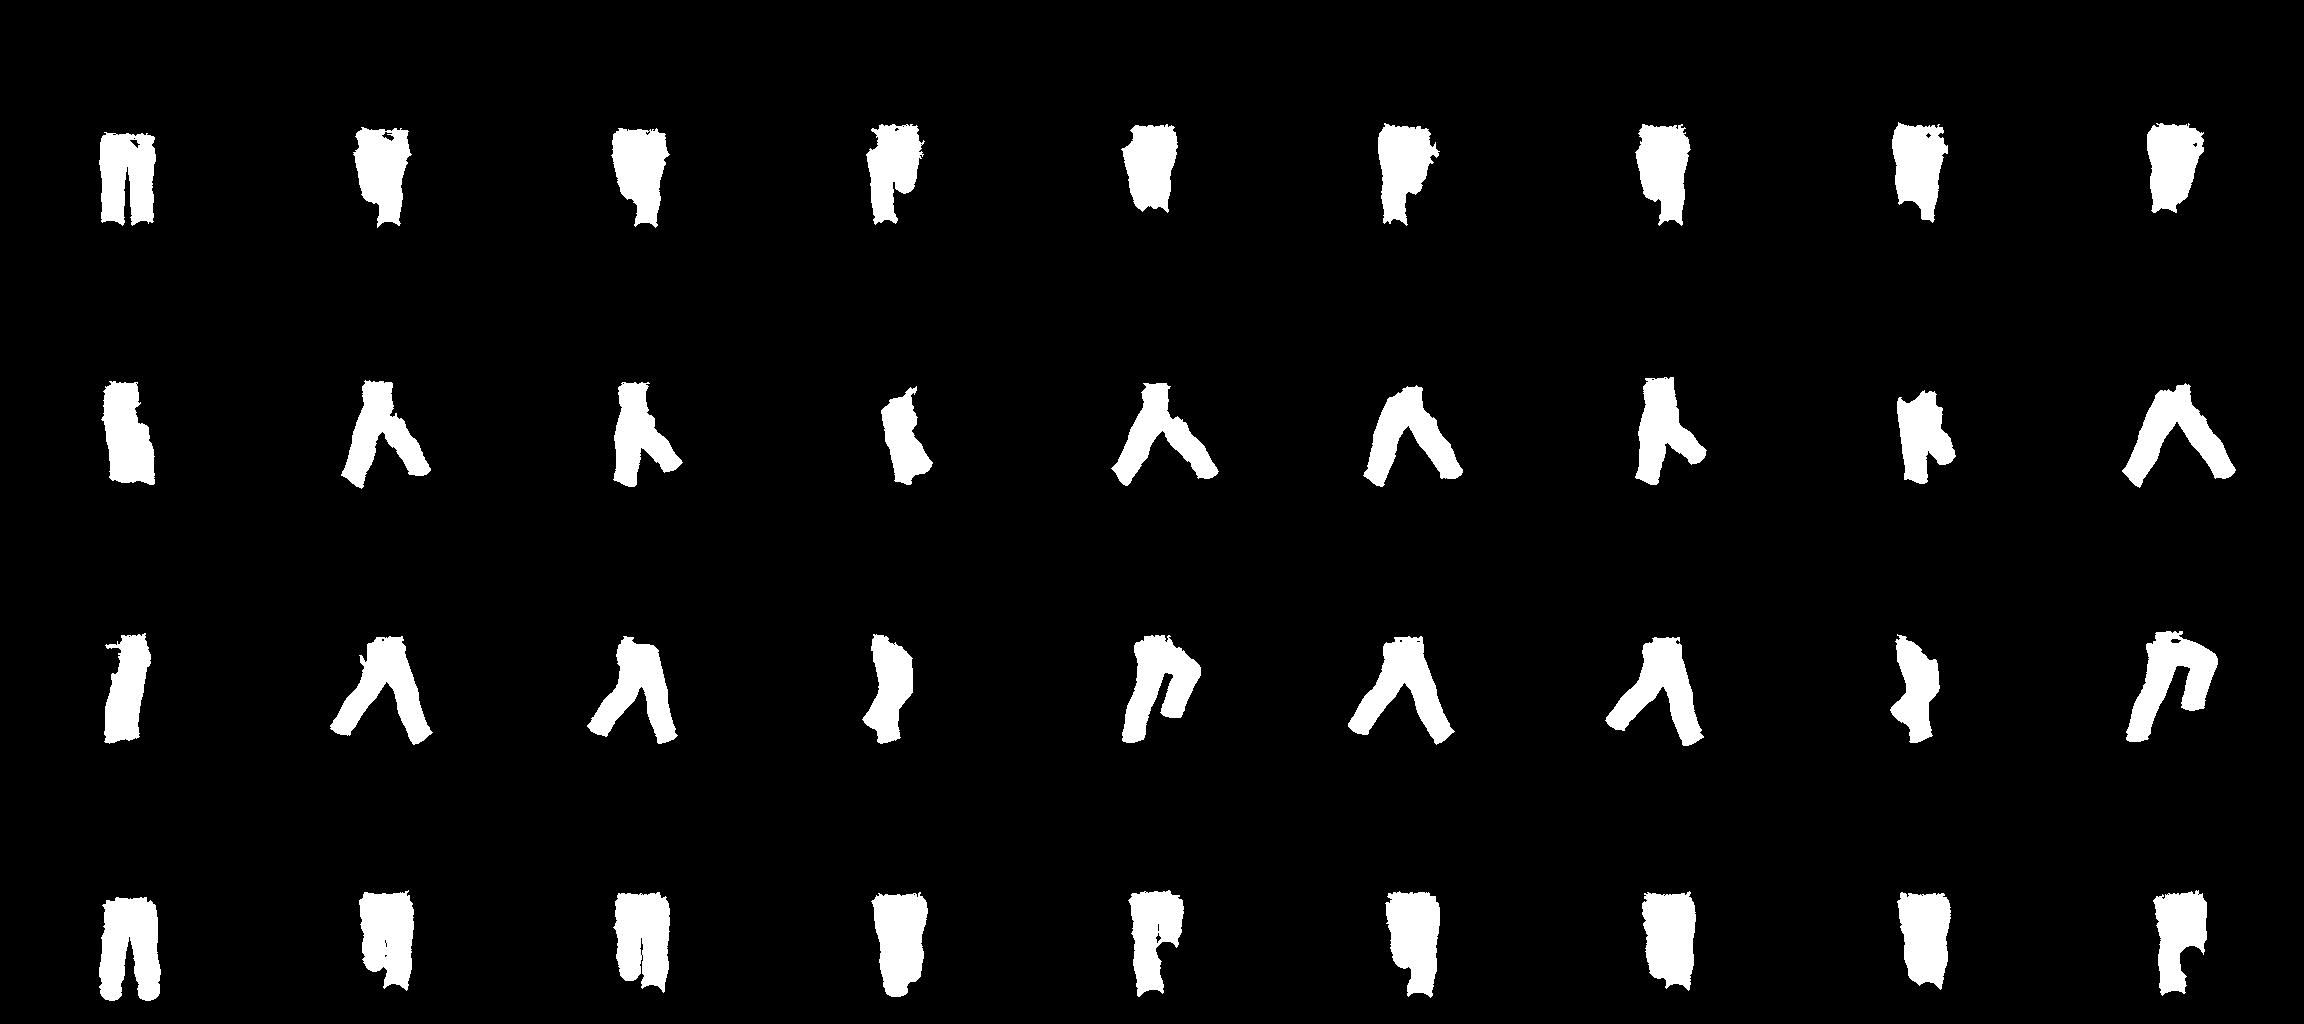
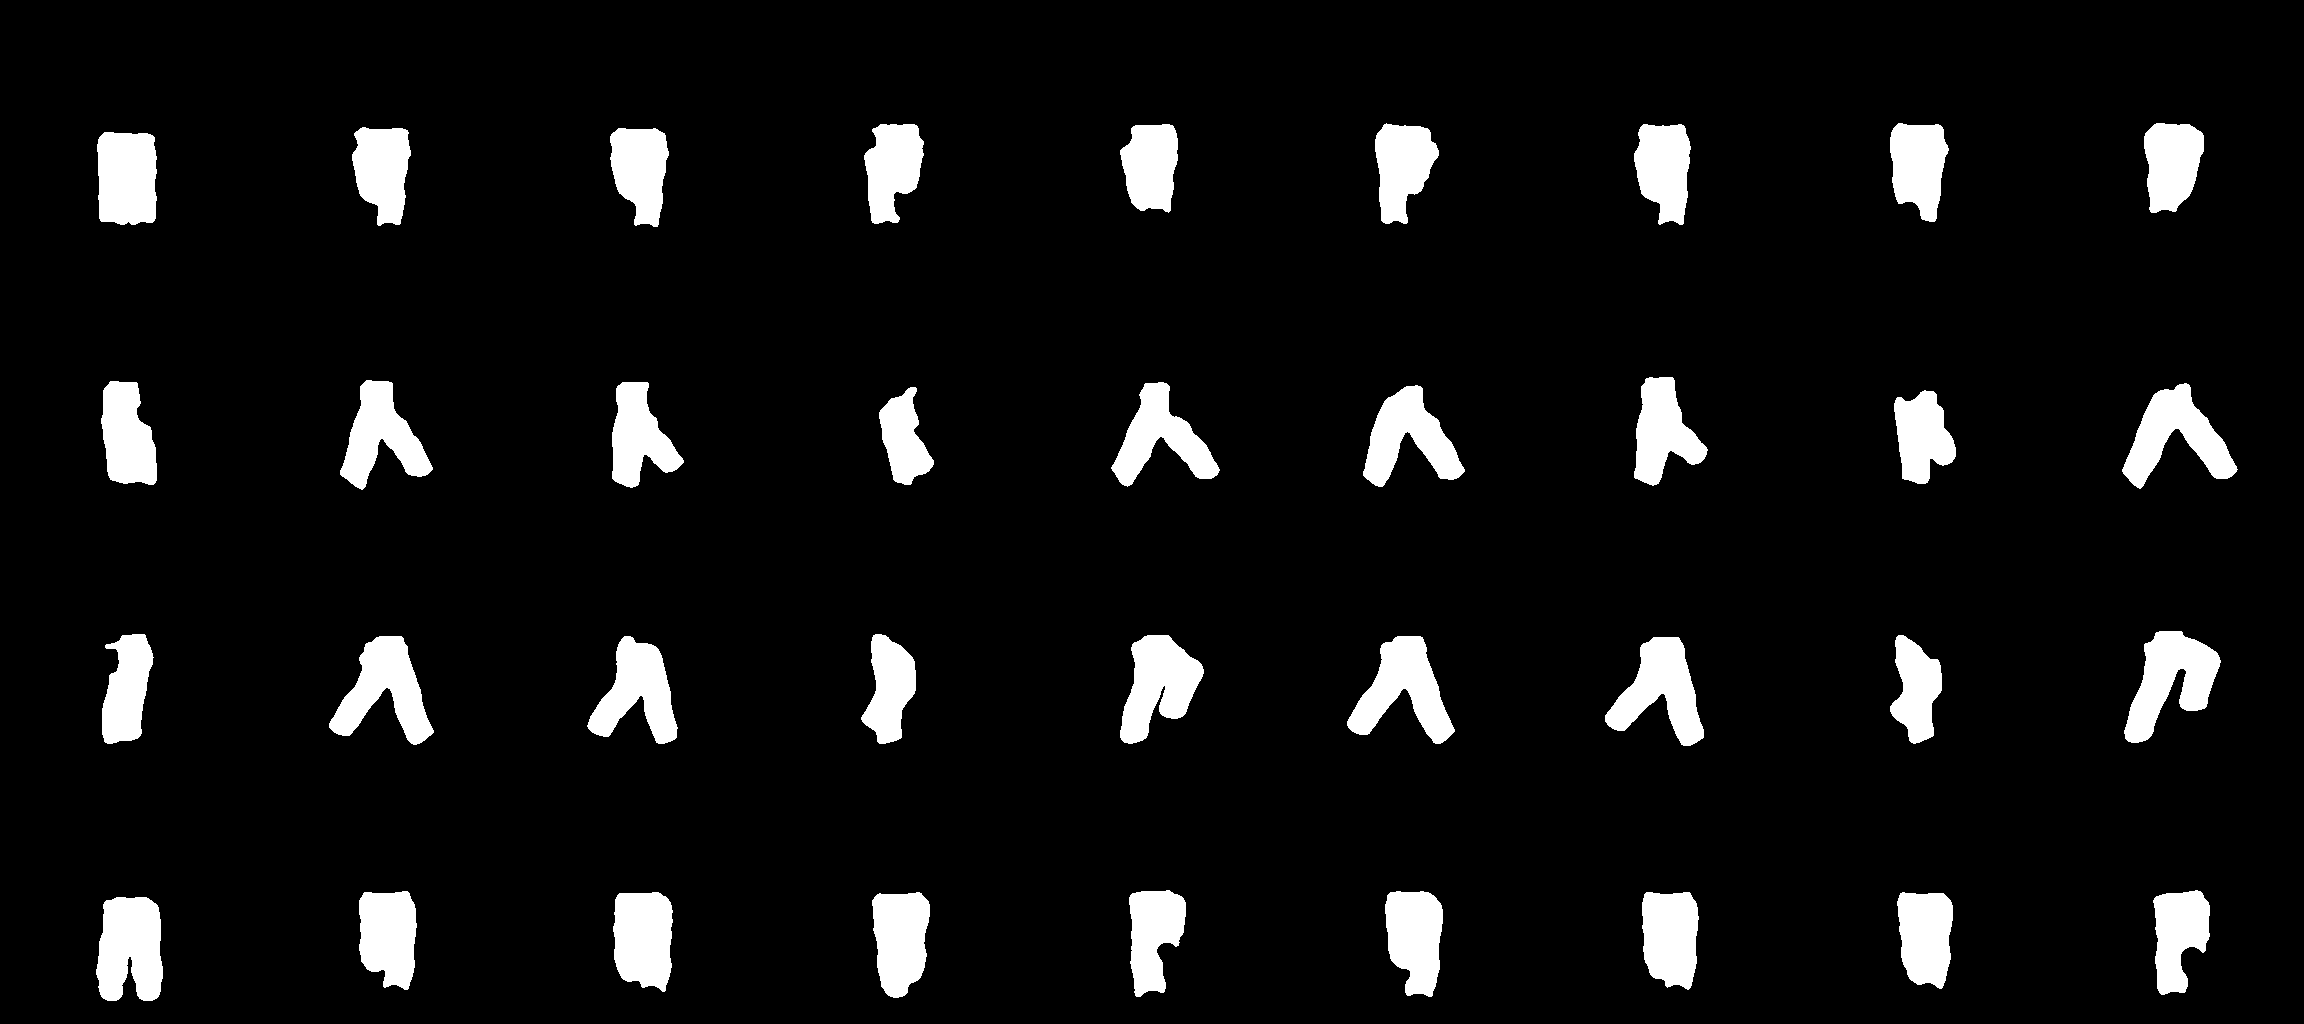
Round 567: solid, smooth designed gear, past the outline (#334)
* Round 567: designed gear keeps a solid shape, past the outline where it needs to

Claude-Session: https://claude.ai/code/session_01XB2RMCaJ1aVVtBjSNk3FhS

* Round 567: smooth template edges

Claude-Session: https://claude.ai/code/session_01XB2RMCaJ1aVVtBjSNk3FhS

---------

diff --git a/assets/gear-recipe.js b/assets/gear-recipe.js
@@ -51,12 +51,15 @@ function gearRecipeRender(recipe, imgs) {
       xs.sort((a, b) => a - b); if (xs.length) mid = xs[xs.length >> 1]; }
     for (let y = top; y <= bot; y++) { const rl = 0, rr = 99;
       for (let x = left; x <= right; x++) { const i = (y0 + y) * W + x0 + x; if (!inM(i)) continue;
-        const ti = (((y - top) % n) * n + ((x - left) % n)) * 4, sh = Math.max(0, 1 + (lum(i) / avg - 1) * shadeK);
+        const ti = (((y - top) % n) * n + ((x - left) % n)) * 4, sh = b[i * 4 + 3] < 128 ? 1 : Math.max(0, 1 + (lum(i) / avg - 1) * shadeK); // (off the body: no shading to borrow)
         let col = [t[ti] / 255 * tint[0] * 1.6, t[ti + 1] / 255 * tint[1] * 1.6, t[ti + 2] / 255 * tint[2] * 1.6];
         if (bands) { const f = (y - top) / Math.max(1, bot - top); if (bands.at.some(a => Math.abs(f - a) * (bot - top) < bands.w / 2)) col = bands.c.slice(); }
         if (seam && rr > rl + 6 && Math.abs(x - mid) <= seam.w / 2) { col = seam.c.slice(); if (seam.glow) col = col.map(v => Math.min(255, v * 1.25)); }
         if (dist && dist[y * C + x] <= trim.w) col = trim.c.slice();
-        out.set([col[0] * sh, col[1] * sh, col[2] * sh, b[i * 4 + 3]], i * 4); } } }
+        // (Round 567: solid wherever the shape is, off the hero's body too; a dark rim on the shape's own edge, like his outline)
+        const X = x0 + x, Y = y0 + y, edge = !inM(i - 1) || !inM(i + 1) || !inM(i - W) || !inM(i + W), k2 = b[i * 4 + 3] < 128 ? 0.92 : 1;
+        if (edge) col = col.map(v => v * 0.22);
+        void X; void Y; out.set([col[0] * sh * k2, col[1] * sh * k2, col[2] * sh * k2, 255], i * 4); } } }
   const c = mk(); c.getContext('2d').putImageData(new ImageData(out, W, H), 0, 0); return c;
 }
 // a recipe's problems (the Gear Studio shows them; the game ignores a recipe that has any)

diff --git a/index.html b/index.html
@@ -622,7 +622,7 @@ requestAnimationFrame(loop);
 <script src="assets/item-names.js?v=round325"></script>
 <script src="assets/world-font.js?v=round326"></script>
 <script src="assets/hero-wear-looks.js?v=round565"></script>
-<script src="assets/gear-recipe.js?v=round564"></script>
+<script src="assets/gear-recipe.js?v=round567"></script>
 <script src="assets/hero-wear.js?v=round565"></script>
 <script src="assets/god-mode.js?v=round198"></script>
 </body></html>

diff --git a/tools/wearable_add.py b/tools/wearable_add.py
@@ -261,6 +261,23 @@ def _main_parts(m):
     return out
 
 
+def _smooth(m, sigma=2.2, cut=0.38):
+    """a clean, rounded edge a little outside the shape: blurred and cut below half, so steps and notches vanish"""
+    try:
+        from scipy import ndimage
+        return _fill_holes(ndimage.gaussian_filter(m.astype(np.float32), sigma) > cut)
+    except ImportError:
+        return m
+
+
+def _fill_holes(m):
+    try:
+        from scipy import ndimage
+        return ndimage.binary_fill_holes(m)
+    except ImportError:
+        return m
+
+
 def slot_templates(base):
     b = base.astype(np.int32); body = b[..., 3] > 128; cy = np.arange(b.shape[0])[:, None] % CELL
     dist = lambda col: np.sqrt(((b[..., :3] - np.array(col)) ** 2).sum(-1))
@@ -286,6 +303,13 @@ def slot_templates(base):
             loose &= ~_grow(body & (b[..., 2] > 150) & (b[..., 1] > 150) & (b[..., 0] < 140) & (b[..., 2] - b[..., 0] > 60), 2)
             for _ in range(6):
                 m = m | (_grow(m, 1) & loose)
+        if sl in TEMPLATE_CLASSES:  # (Round 567, owner: "dont be afraid to make the gear larger than the character outline, we want to
+            # keep it's shape without random pixels being missing"): a solid shape: closed over small gaps, holes filled, then 2px past
+            # the hero's outline (onto empty space only, never over skin), so gear keeps its own silhouette with no pinholes
+            m = _shrink(_grow(m, 3), 3) & (body | _grow(body, 2))
+            m = _fill_holes(m)
+            m = m | (_grow(m, 2) & ~body)
+            m = _smooth(m)  # (owner: "no jagged edges, just big enough to cover the character outline, we don't need to be precise")
         if sl == 'shirt':  # (Round 565, owner: "you could make it a little longer"): tucked under the belt, up to 8px down, only where
             # a belt is (the brown belt's own part or a fitted belt), so no gap shows between shirt and belt and nothing pokes out
             belt = np.zeros(body.shape, bool)

diff --git a/CHANGES.md b/CHANGES.md
@@ -3496,6 +3496,16 @@ Playtest of Neon Aftermath's three relics (Moon Lens 5,4; Ember Sigil 5,7; Briar
 - Talent descriptions list the per-rank values. Tests updated: round76, chronospire,
   talent-matrix, card-variety, plating-armor.
 
+## Round 567: designed gear keeps a solid shape, past the outline where it needs to
+
+(Owner: "dont be afraid to make the gear larger than the character outline, we want to keep it's shape without random pixels
+being missing".) The shirt, pants and boots templates are now solid: closed over small gaps (3px), holes filled, and grown 2px
+past the hero's outline onto empty space (never over his skin). The recipe renderer (`assets/gear-recipe.js`) draws gear solid
+wherever its shape is, on or off the body (no shading to borrow off the body), with a dark rim on the shape's own edge like the
+hero's outline. The Aetherlink stays clear. Drawn looks are unaffected.
+(Owner: "no jagged edges, just big enough to cover the character outline, we don't need to be precise".) Each template is then
+smoothed (blurred, cut a little below half: `_smooth`), so its edge is a clean curve slightly outside the outline, with no steps.
+
 ## Round 566: desert armor for Solaris's gear, designed with recipes
 
 (Owner: "can you use your technique to create a desert style armor for the character?") The two Solaris (desert) items get

diff --git a/CLAUDE.md b/CLAUDE.md
@@ -7,7 +7,7 @@ gallery; `arena.html` is a standalone prototype and is left untouched.
 **`CODEX-NOTES.md`** records Codex's generation review and recommendations for Claude; check its pinned baseline before acting.
 
 **`NOTES.md`** holds the owner's ideas for later (not to build until asked); remind the owner of them when
-relevant. **Read `CHANGES.md` first.** Every round of work (Round 1 to Round 566) is
+relevant. **Read `CHANGES.md` first.** Every round of work (Round 1 to Round 567) is
 logged there with its reasoning. Add a new `## Round N:` entry for each
 change set.
 
